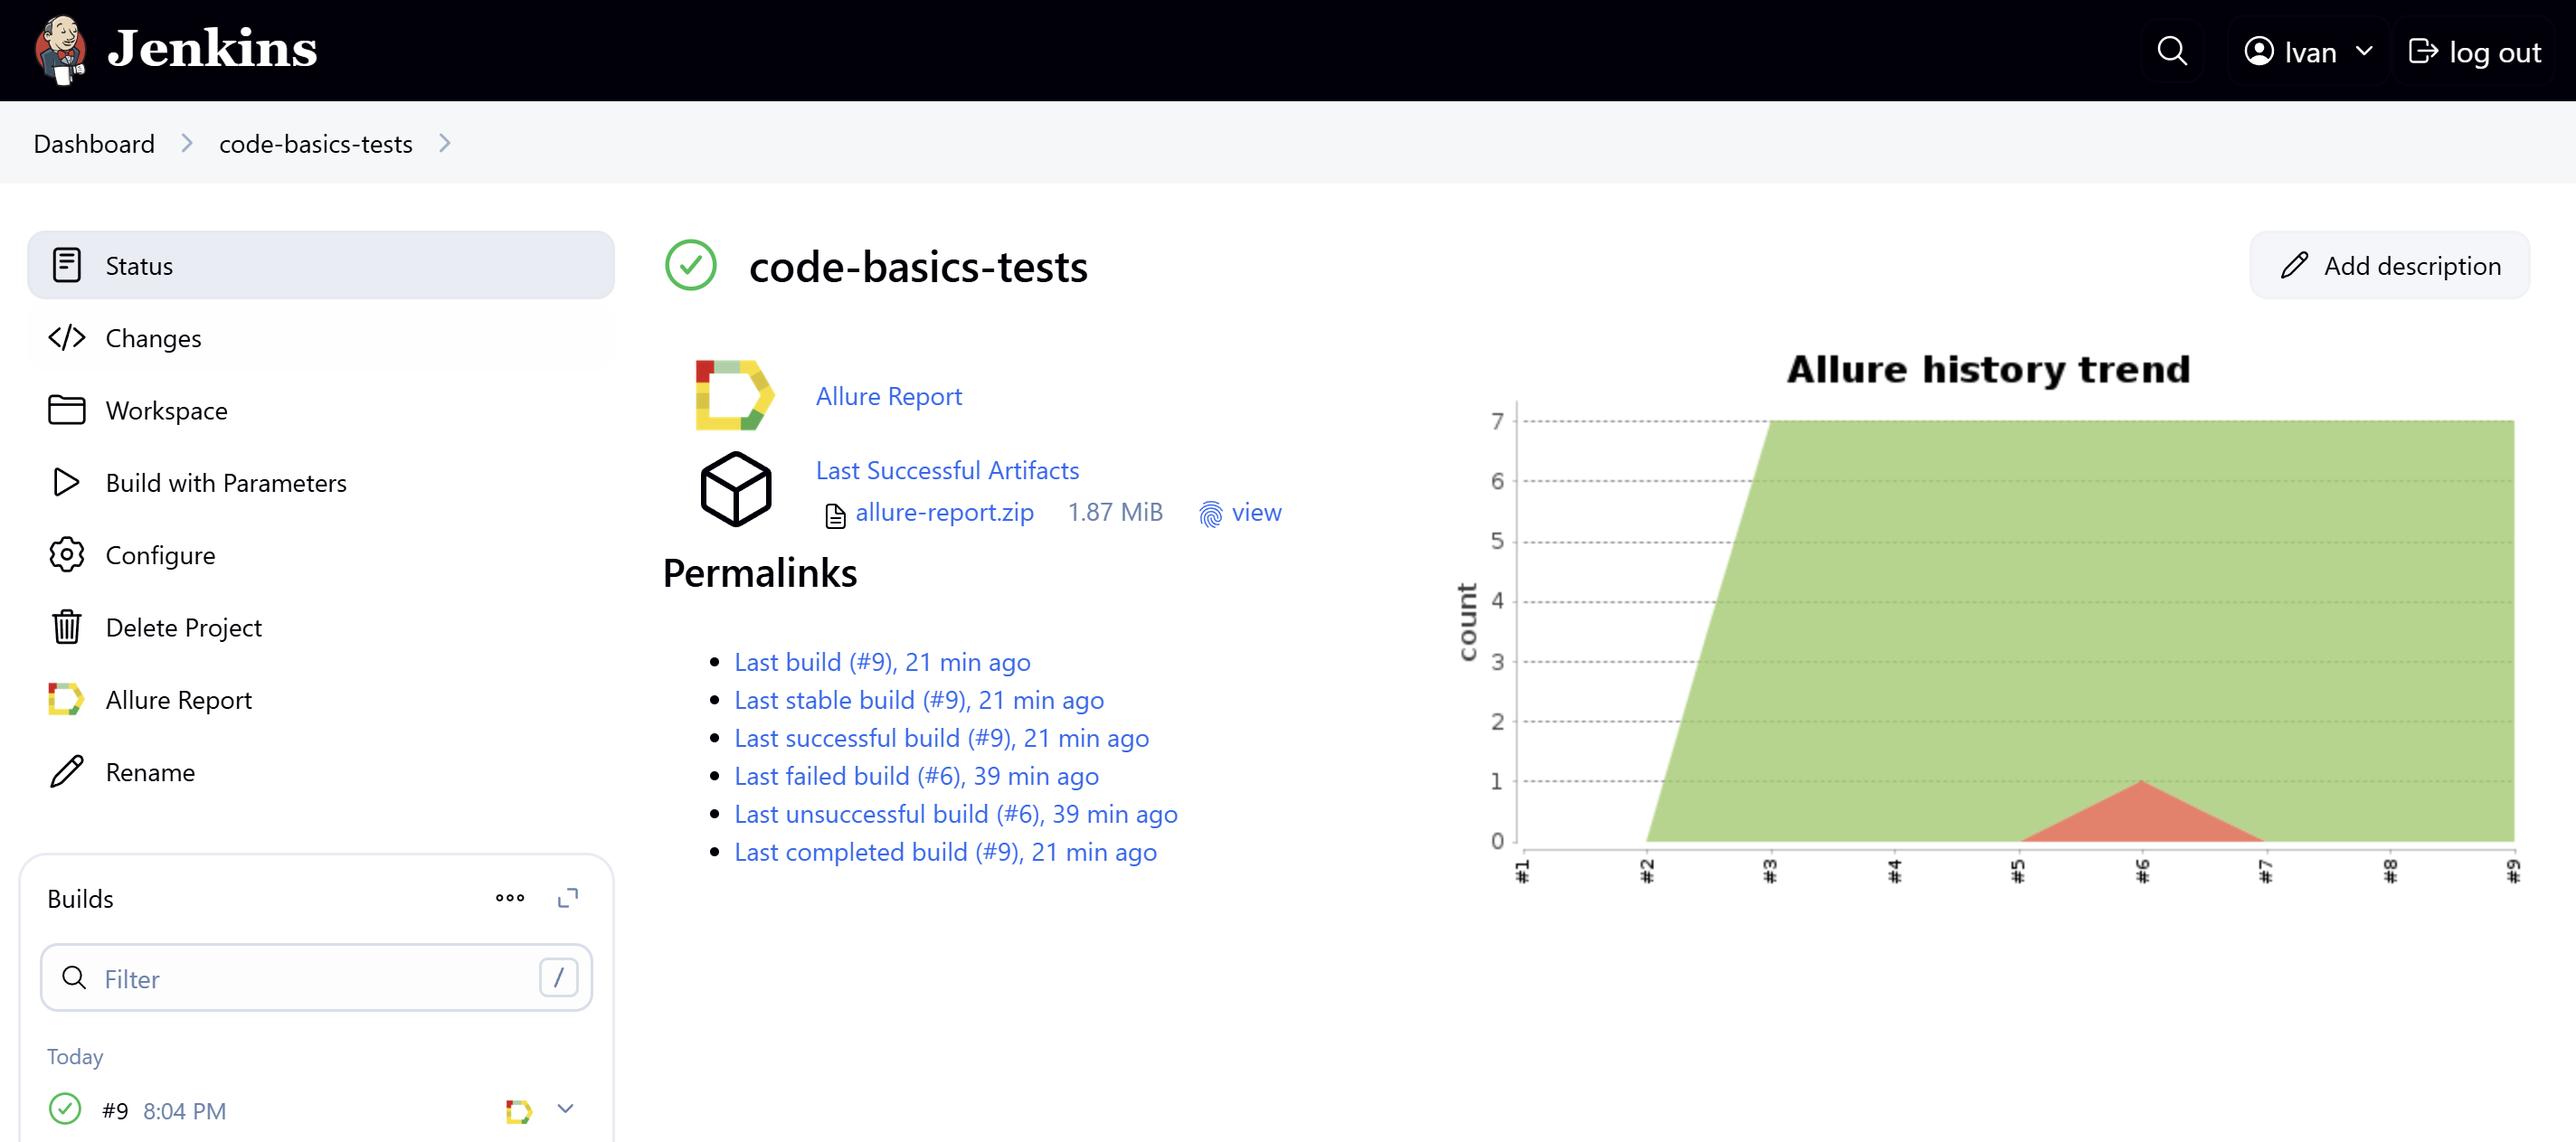
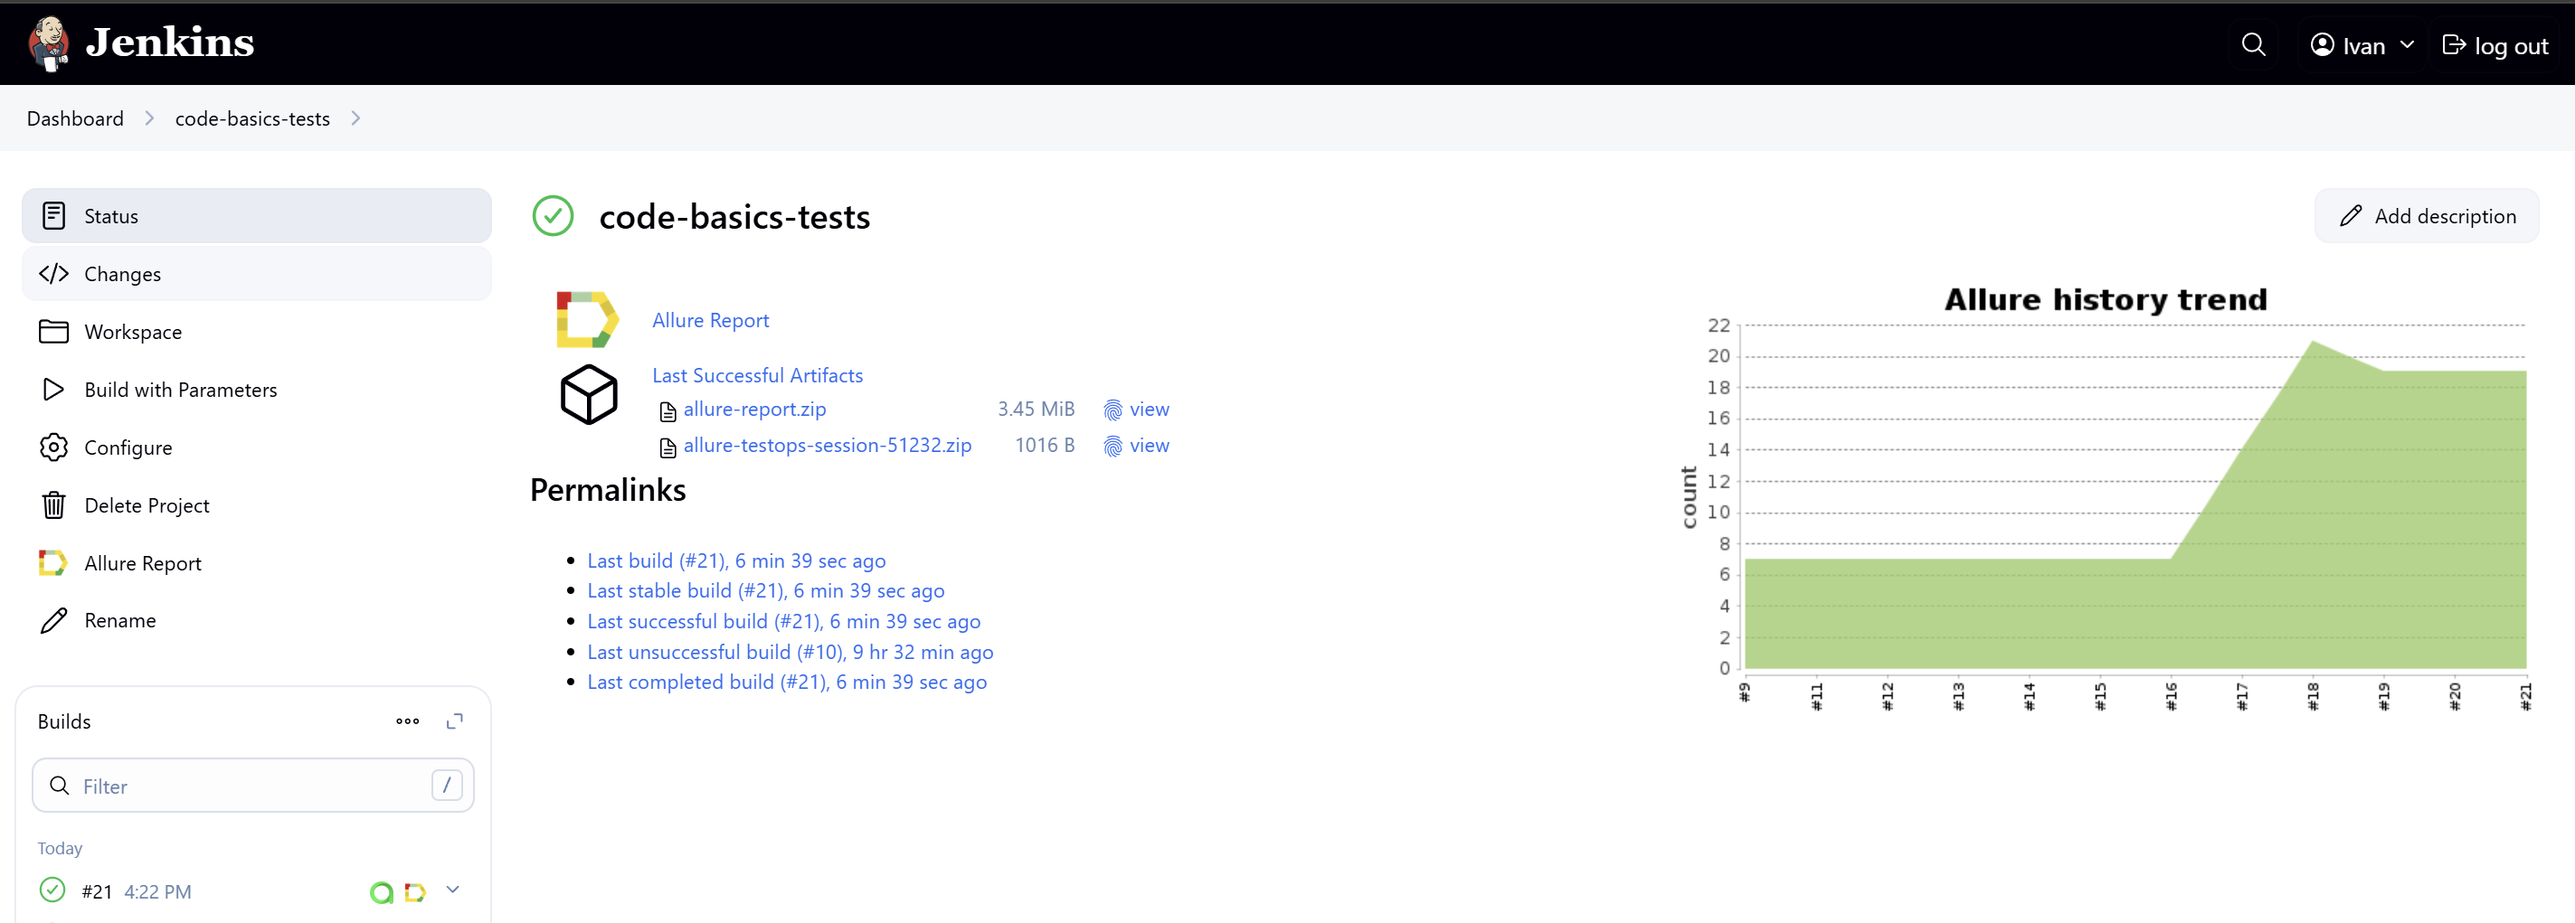
add images

diff --git a/README.md b/README.md
@@ -15,6 +15,8 @@ ____
 
 * <a href="#allure">Allure отчет</a>
 
+* <a href="#alluretestops">Интеграция с Allure TestOps</a>
+
 * <a href="#telegram">Уведомление в Telegram при помощи бота</a>
 
 ____
@@ -45,6 +47,8 @@ ____
 - ✓ *Восстановление пароля с невалидным email.*
 - ✓ *Восстановление пароля с несуществующим email.*
 - ✓ *Восстановление пароля с пустым полем email.*
+- ✓ *Проверка успешной смены языка.*
+- ✓ *Проверка открытия тренажера с курсами по Java.*
 
 
 
@@ -95,7 +99,7 @@ ___
 ### *Основная страница отчёта*
 
 <p align="center">  
-<img title="Allure Overvi ew Dashboard" src="images/screenshots/AllureMainPage.png" width="850">  
+<img title="Allure Overview Dashboard" src="images/screenshots/AllureMainPage.png" width="850">  
 </p>  
 
 ### *Тест-кейсы*
@@ -108,6 +112,13 @@ ___
 
   <p align="center">  
 <img title="Allure Graphics" src="images/screenshots/AllureGraphic.png" width="850">
+
+</p>
+
+### *Интеграция с Allure TestOps*
+
+  <p align="center">  
+<img title="Allure Graphics" src="images/screenshots/AllureTestOps.png" width="850">
 
 </p>
 
